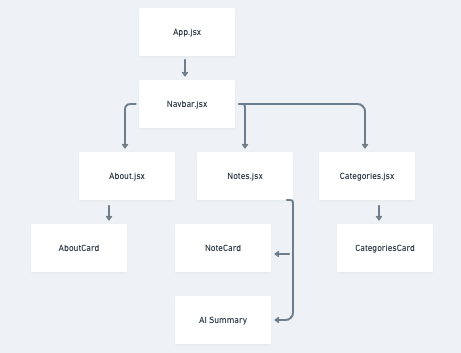
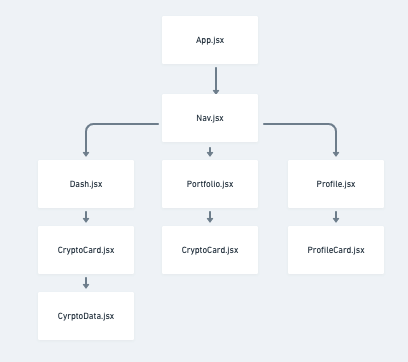
changed proj to coin dash, updated readme

diff --git a/README.md b/README.md
@@ -1,6 +1,6 @@
-# Open-Note
+# Coin Dash
 
-## Date: 7/6/23
+## Date: 7/7/23
 
 ---
 
@@ -16,7 +16,7 @@
 
 ### **_Description_**
 
-#### "Open Note" is a cutting-edge note-taking app that combines the convenience of the MERN stack with the power of the OpenAI API. Users can create, organize, and manage their notes seamlessly while benefiting from the AI-powered summarization feature.
+#### CoinDash is a cutting-edge crypto data visualization app that empowers users to explore and analyze the dynamic world of cryptocurrencies. With real-time market data, interactive charts, and comprehensive insights, users can make informed investment decisions. What sets CoinGraph apart is its personalized chat bot, powered by the OpenAI API, which offers a seamless conversational experience, providing users with tailored recommendations, market updates, and answers to their crypto-related queries. Experience a new level of data-driven decision-making and personalized assistance with CoinGraph.
 
 ---
 
@@ -43,16 +43,16 @@
 
 ### **_Entity Relationship Diagram_**
 
-![](images/ERD.png)
+![](images/erd.png)
 
 ### **_Component Hierarchy Diagram_**
 
-![](images/CHD.png)
+![](images/chd.png)
 
 ### **_WireFrame_**
 
-![](images/WF1.png)
-![](images/WF2.png)
+![](images/dash.png)
+![](images/portfolio.png)
 
 ---
 
@@ -74,7 +74,7 @@
 
 #### 1. Implement OAuth
 
-#### 2. Develop additional features within Open Note, such as a personal/customizable chat bot to ask questions.
+#### 2. Develop additional features within Coin Dash to make cyrpto transactions
 
 ---
 
